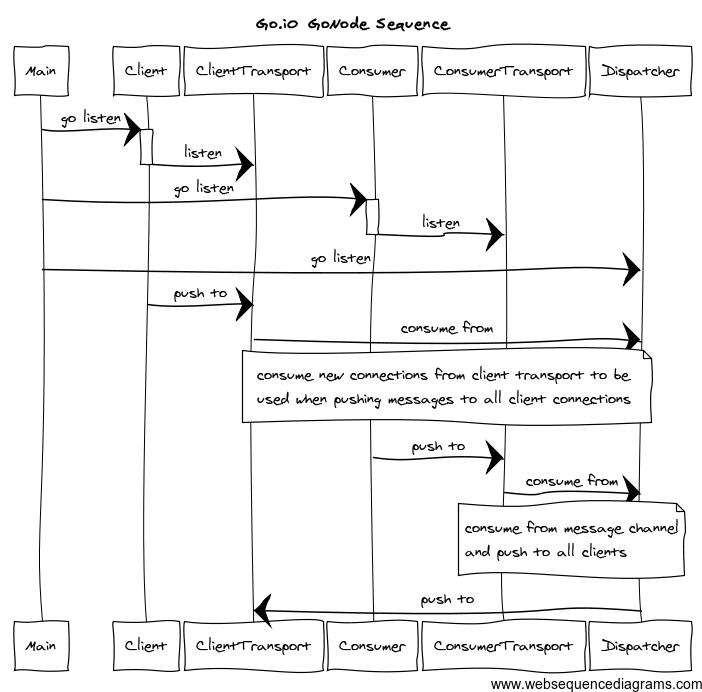
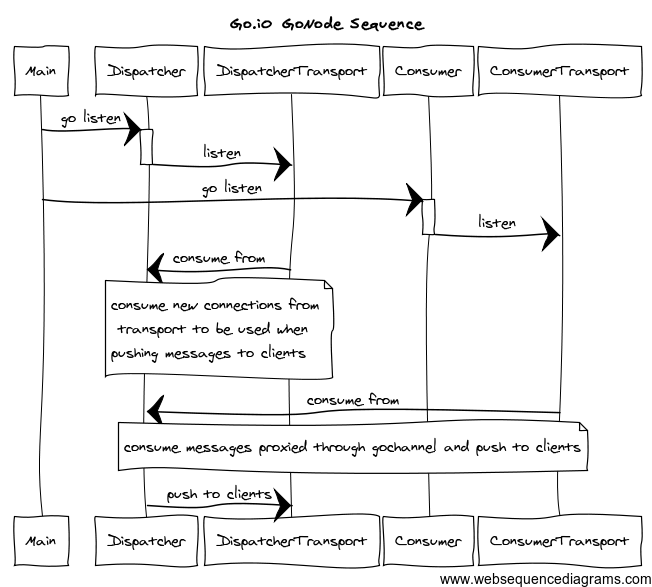
Refactors to use consumer/dispatcher model.

Changed region(s): [[0.0, 0.0307, 1.0, 1.0], [0.0, 0.7359, 0.1227, 0.9813]]

diff --git a/gonode/src/go.io/dispatcher/transport/sockjs.go b/gonode/src/go.io/dispatcher/transport/sockjs.go
@@ -1,4 +1,4 @@
-package client_transport
+package dispatcher_transport
 
 import (
 	"github.com/igm/sockjs-go/sockjs"
@@ -7,21 +7,21 @@ import (
 	"time"
 )
 
-type SockjsClientTransport struct {
+type SockjsDispatcherTransport struct {
 }
 
-func NewSockjsClientTransport() SockjsClientTransport {
-	return SockjsClientTransport{}
+func NewSockjsDispatcherTransport() SockjsDispatcherTransport {
+	return SockjsDispatcherTransport{}
 }
 
-func (self *SockjsClientTransport) Listen() {
+func (self *SockjsDispatcherTransport) Listen() {
 	sockjs.Install("/sockjs", ConnectionHandler, sockjs.DefaultConfig)
 	http.Handle("/", http.FileServer(http.Dir("./www")))
 	http_err := http.ListenAndServe(":8080", nil)
 	log.Fatal(http_err)
 }
 
-func (self *SockjsClientTransport) Destroy() {
+func (self *SockjsDispatcherTransport) Destroy() {
 
 }
 
@@ -48,6 +48,6 @@ func ConnectionHandler(session sockjs.Conn) {
 	log.Println("Client session closed: transport=sockjs")
 }
 
-func (self *SockjsClientTransport) SendMessage(message string) {
+func (self *SockjsDispatcherTransport) SendMessage(message string) {
 	// client.connection.session.WriteMessage([]byte("{\"message\":\"Hello, Go!\", \"error\":null}"))
 }

diff --git a/gonode/src/go.io/server.go b/gonode/src/go.io/server.go
@@ -1,8 +1,8 @@
 package main
 
 import (
-	"go.io/client"
 	"go.io/consumer"
+	"go.io/dispatcher"
 	"log"
 	"os"
 	"os/signal"
@@ -18,18 +18,15 @@ func main() {
 	// messageChannel := make(chan string)
 	// clientChannel := make(chan client.Client)
 
-	client := client.NewClient()
-	go client.Listen()
+	_dispatcher := dispatcher.NewDispatcher()
+	go _dispatcher.Listen()
 
-	consumer := consumer.NewConsumer()
-	go consumer.Listen()
-
-	// message_dispatcher := message.NewMessageDispatcher()
-	// go message_dispatcher.Listen(messageChannel)
+	_consumer := consumer.NewConsumer()
+	go _consumer.Listen()
 
 	<-signalChannel
-	client.Destroy()
-	consumer.Destroy()
+	_dispatcher.Destroy()
+	_consumer.Destroy()
 	// if env.Config.Verbosity > 0 {
 	//     log.Println("Reports Firehose Consumer - node ending")
 	// }

diff --git a/gonode/src/go.io/dispatcher/dispatcher.go b/gonode/src/go.io/dispatcher/dispatcher.go
@@ -1,1 +1,26 @@
 package dispatcher
+
+import (
+	"go.io/dispatcher/transport"
+	"log"
+)
+
+type Dispatcher struct {
+	transport dispatcher_transport.DispatcherTransport
+}
+
+func NewDispatcher() Dispatcher {
+	transport := dispatcher_transport.NewDispatcherTransport()
+	self := Dispatcher{transport}
+	return self
+}
+
+func (self *Dispatcher) Listen() {
+	log.Print("Dispatcher: listening...")
+	self.transport.Listen()
+}
+
+func (self *Dispatcher) Destroy() {
+	log.Print("Dispatcher: destroying...")
+	self.transport.Destroy()
+}

diff --git a/gonode/src/go.io/dispatcher/transport/transport.go b/gonode/src/go.io/dispatcher/transport/transport.go
@@ -1,0 +1,12 @@
+package dispatcher_transport
+
+type DispatcherTransport interface {
+	Listen()
+	Destroy()
+}
+
+func NewDispatcherTransport() DispatcherTransport {
+	// TODO: which transport to use should come from env config
+	t := NewSockjsDispatcherTransport()
+	return DispatcherTransport(&t)
+}

diff --git a/gonode/src/go.io/dispatcher/message.go b/gonode/src/go.io/dispatcher/message.go
@@ -1,0 +1,4 @@
+package dispatcher
+
+type Message interface {
+}

diff --git a/gonode/src/go.io/dispatcher/client.go b/gonode/src/go.io/dispatcher/client.go
@@ -1,0 +1,4 @@
+package dispatcher
+
+type Client interface {
+}

diff --git a/gonode/src/go.io/dispatcher/transport/socketio.go b/gonode/src/go.io/dispatcher/transport/socketio.go
@@ -1,0 +1,1 @@
+package dispatcher_transport

diff --git a/gonode/src/go.io/dispatcher/transport/socketio_test.go b/gonode/src/go.io/dispatcher/transport/socketio_test.go
@@ -1,0 +1,1 @@
+package dispatcher_transport

diff --git a/gonode/src/go.io/dispatcher/transport/sockjs_test.go b/gonode/src/go.io/dispatcher/transport/sockjs_test.go
@@ -1,0 +1,1 @@
+package dispatcher_transport

diff --git a/gonode/src/go.io/dispatcher/transport/sse.go b/gonode/src/go.io/dispatcher/transport/sse.go
@@ -1,0 +1,1 @@
+package dispatcher_transport

diff --git a/gonode/src/go.io/dispatcher/transport/sse_test.go b/gonode/src/go.io/dispatcher/transport/sse_test.go
@@ -1,0 +1,1 @@
+package dispatcher_transport

diff --git a/gonode/src/go.io/dispatcher/transport/transport_test.go b/gonode/src/go.io/dispatcher/transport/transport_test.go
@@ -1,0 +1,1 @@
+package dispatcher_transport
